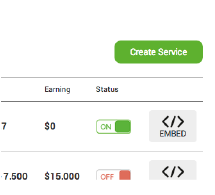
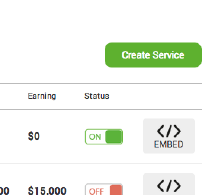
empty css 수정

diff --git a/app/assets/stylesheets/account.css.scss b/app/assets/stylesheets/account.css.scss
@@ -1841,8 +1841,11 @@
       padding: 30px;
       margin: 15px 0;
       text-align: left;
+      height: 405px;
+      vertical-align: top;
       h4 {
         color: #5eb12f;
+        margin-top: 20px;
       }
       p {
         color: #aaa;
@@ -1855,7 +1858,7 @@
     .center {
       border-right: 1px solid #ddd;
       border-left: 1px solid #ddd;
-      padding: 20px;
+   
     }
   }
 
